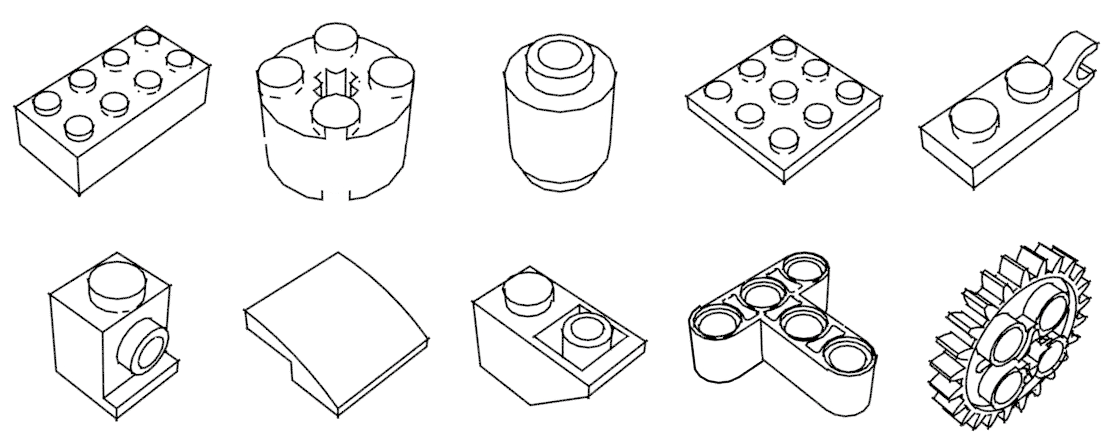
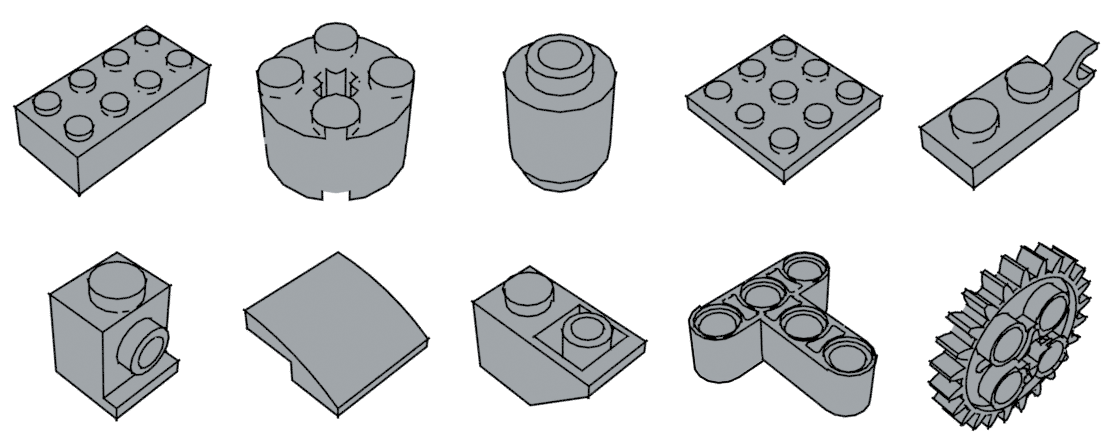
More README tweaks

diff --git a/docs-instructions.py b/docs-instructions.py
@@ -27,7 +27,7 @@ for i, part in enumerate(parts):
         image_filename = f"renders/docs{i}.png",
         quality = Quality.DRAFT, # clearer look without studs
         look = Look.INSTRUCTIONS,
-        part_color = RebrickableColors.White.value.best_hex,
+        part_color = RebrickableColors.LightBluishGray.value.best_hex,
         zoom = 0.6,
     ))
 

diff --git a/docs-special.py b/docs-special.py
@@ -36,5 +36,5 @@ for i, variant in enumerate(variants):
     ))
 
 images = [Image.open(f"renders/docs{i}.png") for i, _ in enumerate(variants)]
-image = grid(images, 2, 5)
+image = grid(images, 1, 5)
 image.save("docs/special.png")

diff --git a/README.md b/README.md
@@ -12,28 +12,6 @@ A single render typically takes 10-15s on an M1 Pro. There is a draft mode
 that takes a few seconds.
 
 
-## Sample
-
-```python
-renderer = Renderer(ldraw_path="./ldraw")
-
-renderer.render_part("6126b", RenderOptions(
-    image_filename = "renders/test.jpg",
-    part_color = RebrickableColors.Blue.value.best_hex,
-    material = Material.PLASTIC,
-    lighting_style = LightingStyle.BRIGHT,
-    light_angle = 160,
-    part_rotation = (0, 0, 270),
-    camera_height = 45,
-    zoom = 0.1,
-    look = Look.NORMAL,
-    render_width = 244,
-    render_height = 244,
-))
-
-```
-See `lib/renderer/render_options.py` for the full list of options. See `docs-*.py` to see how the images on this page were genereated.
-
 ## Parts
 
 In theory this can render any LDraw part. However I've only tested with typical plastic Lego parts. Parts are specified using their LDraw ID. In many cases this will be same as the mold number on the part but not always. Keep in mind there may be multiple molds over time.
@@ -41,14 +19,14 @@ In theory this can render any LDraw part. However I've only tested with typical 
 
 ## Materials
 
-Currently supports plastic, transparent and rubber. Not supported yet: glitter, pearlescent, glitter, glitter, metal and cloth.
+Currently supports plastic, transparent and rubber. Not supported yet: pearlescent, glitter, neon colors, metal and cloth.
 
 ![grid of materials](docs/materials.png)
 
 
 ## Colors
 
-Ccolors are specified with hex codes in sRGB. Included is a list of named colors from Rebrickable.
+Colors are specified with hex codes in sRGB. Included is a list of named colors from Rebrickable.
 
 
 ![grid of colors](docs/colors.png)
@@ -96,6 +74,8 @@ Various parts that have caused trouble. Partially here so I know they continue t
 
 ## Instruction Look
 
+By default they are rendered with a transparent background. Use PNG format (`format=Format.PNG`).
+
 ![grid of various parts in line art style](docs/instructions.png)
 
 
@@ -116,7 +96,30 @@ Various parts that have caused trouble. Partially here so I know they continue t
 
 ## Run
 
-We need to run in Blender's Python environment:
+Build script:
+
+```python
+renderer = Renderer(ldraw_path="./ldraw")
+
+renderer.render_part("6126b", RenderOptions(
+    image_filename = "renders/test.jpg",
+    part_color = RebrickableColors.Blue.value.best_hex,
+    material = Material.PLASTIC,
+    lighting_style = LightingStyle.BRIGHT,
+    light_angle = 160,
+    part_rotation = (0, 0, 270),
+    camera_height = 45,
+    zoom = 0.1,
+    look = Look.NORMAL,
+    render_width = 244,
+    render_height = 244,
+))
+
+```
+
+See `lib/renderer/render_options.py` for the full list of options. See `docs-*.py` to see how the images on this page were genereated.
+
+Run in Blender's Python environment:
 
 ```
 ./run.sh test.py         # renders to renders/test/png
